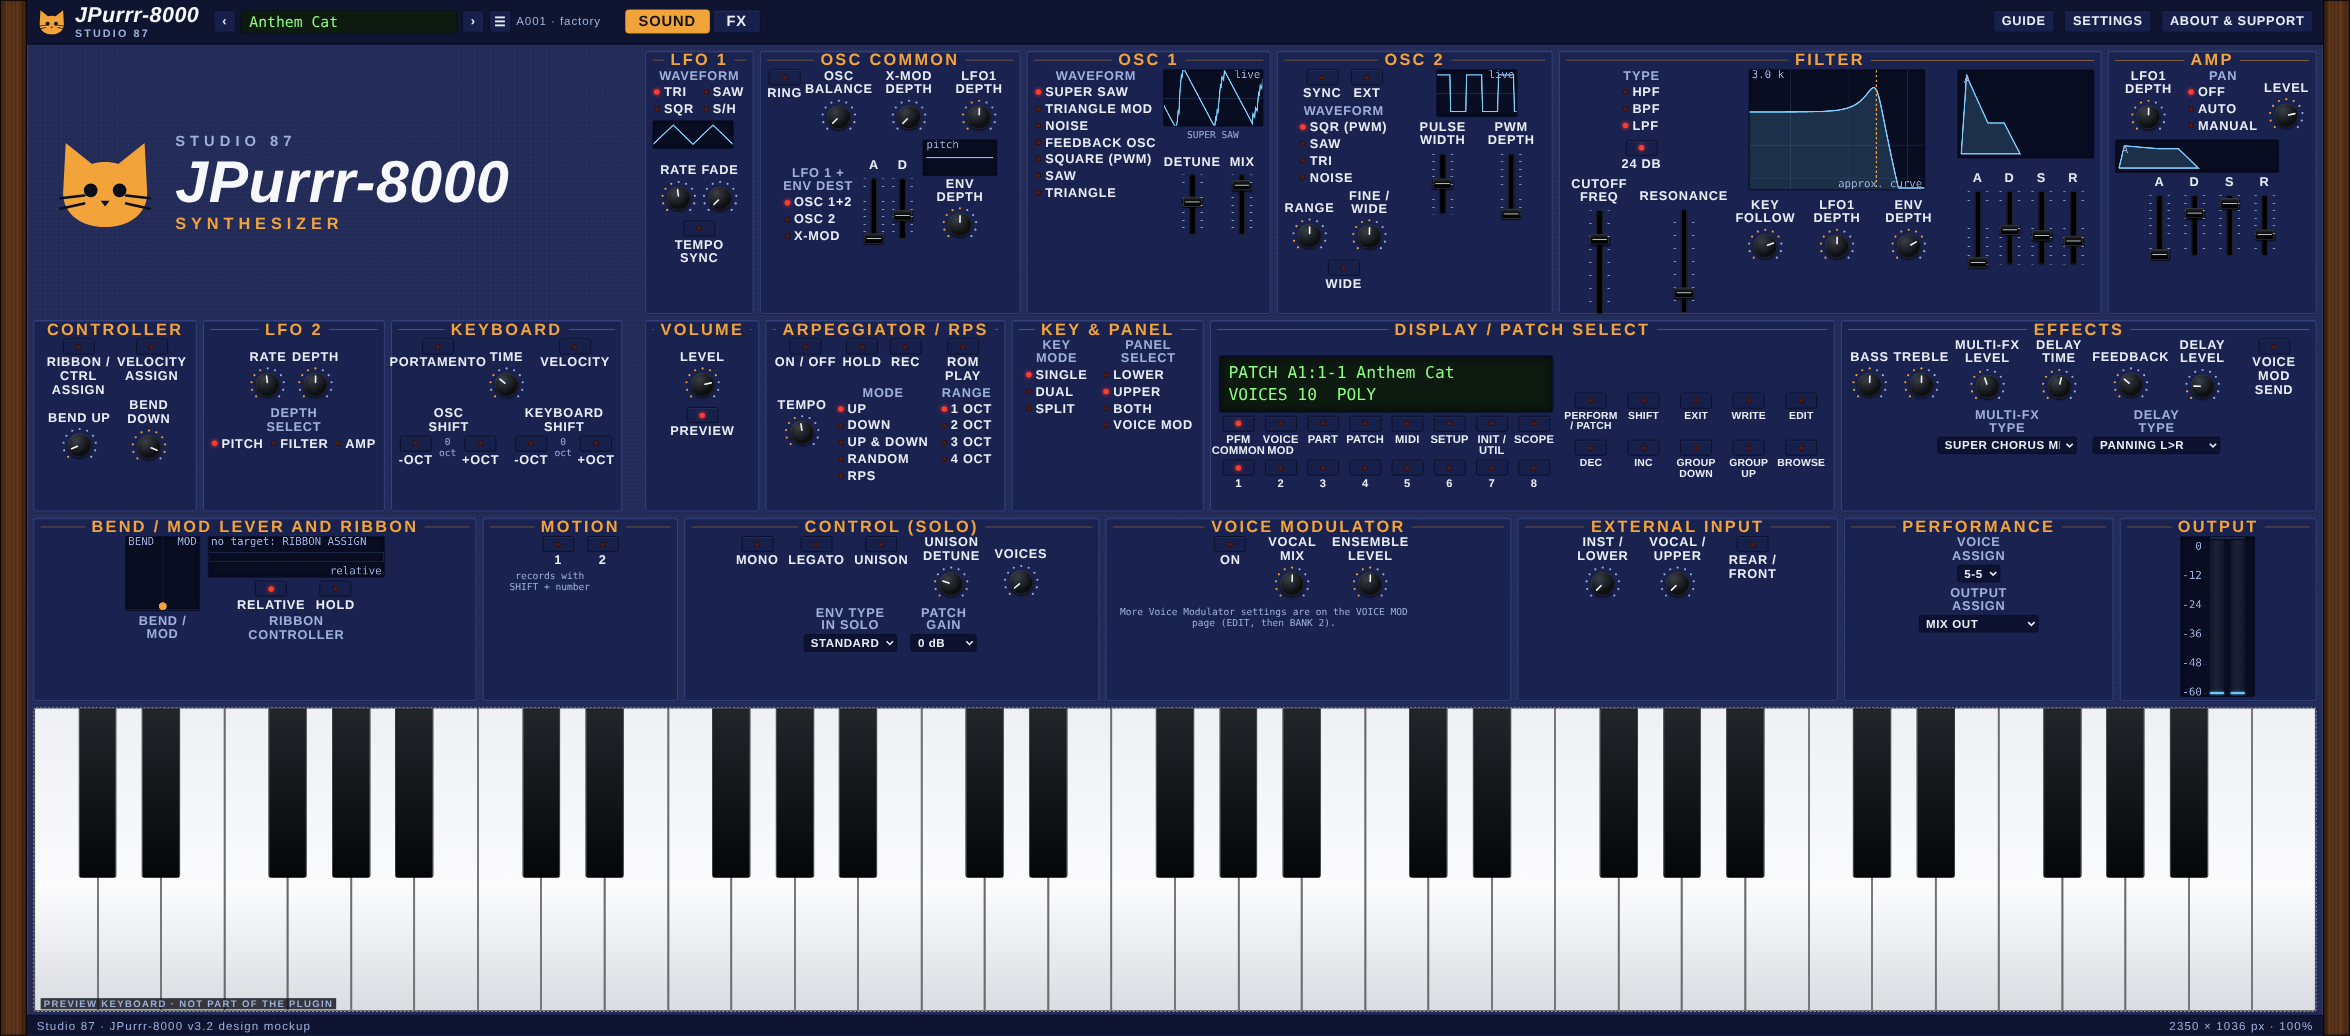
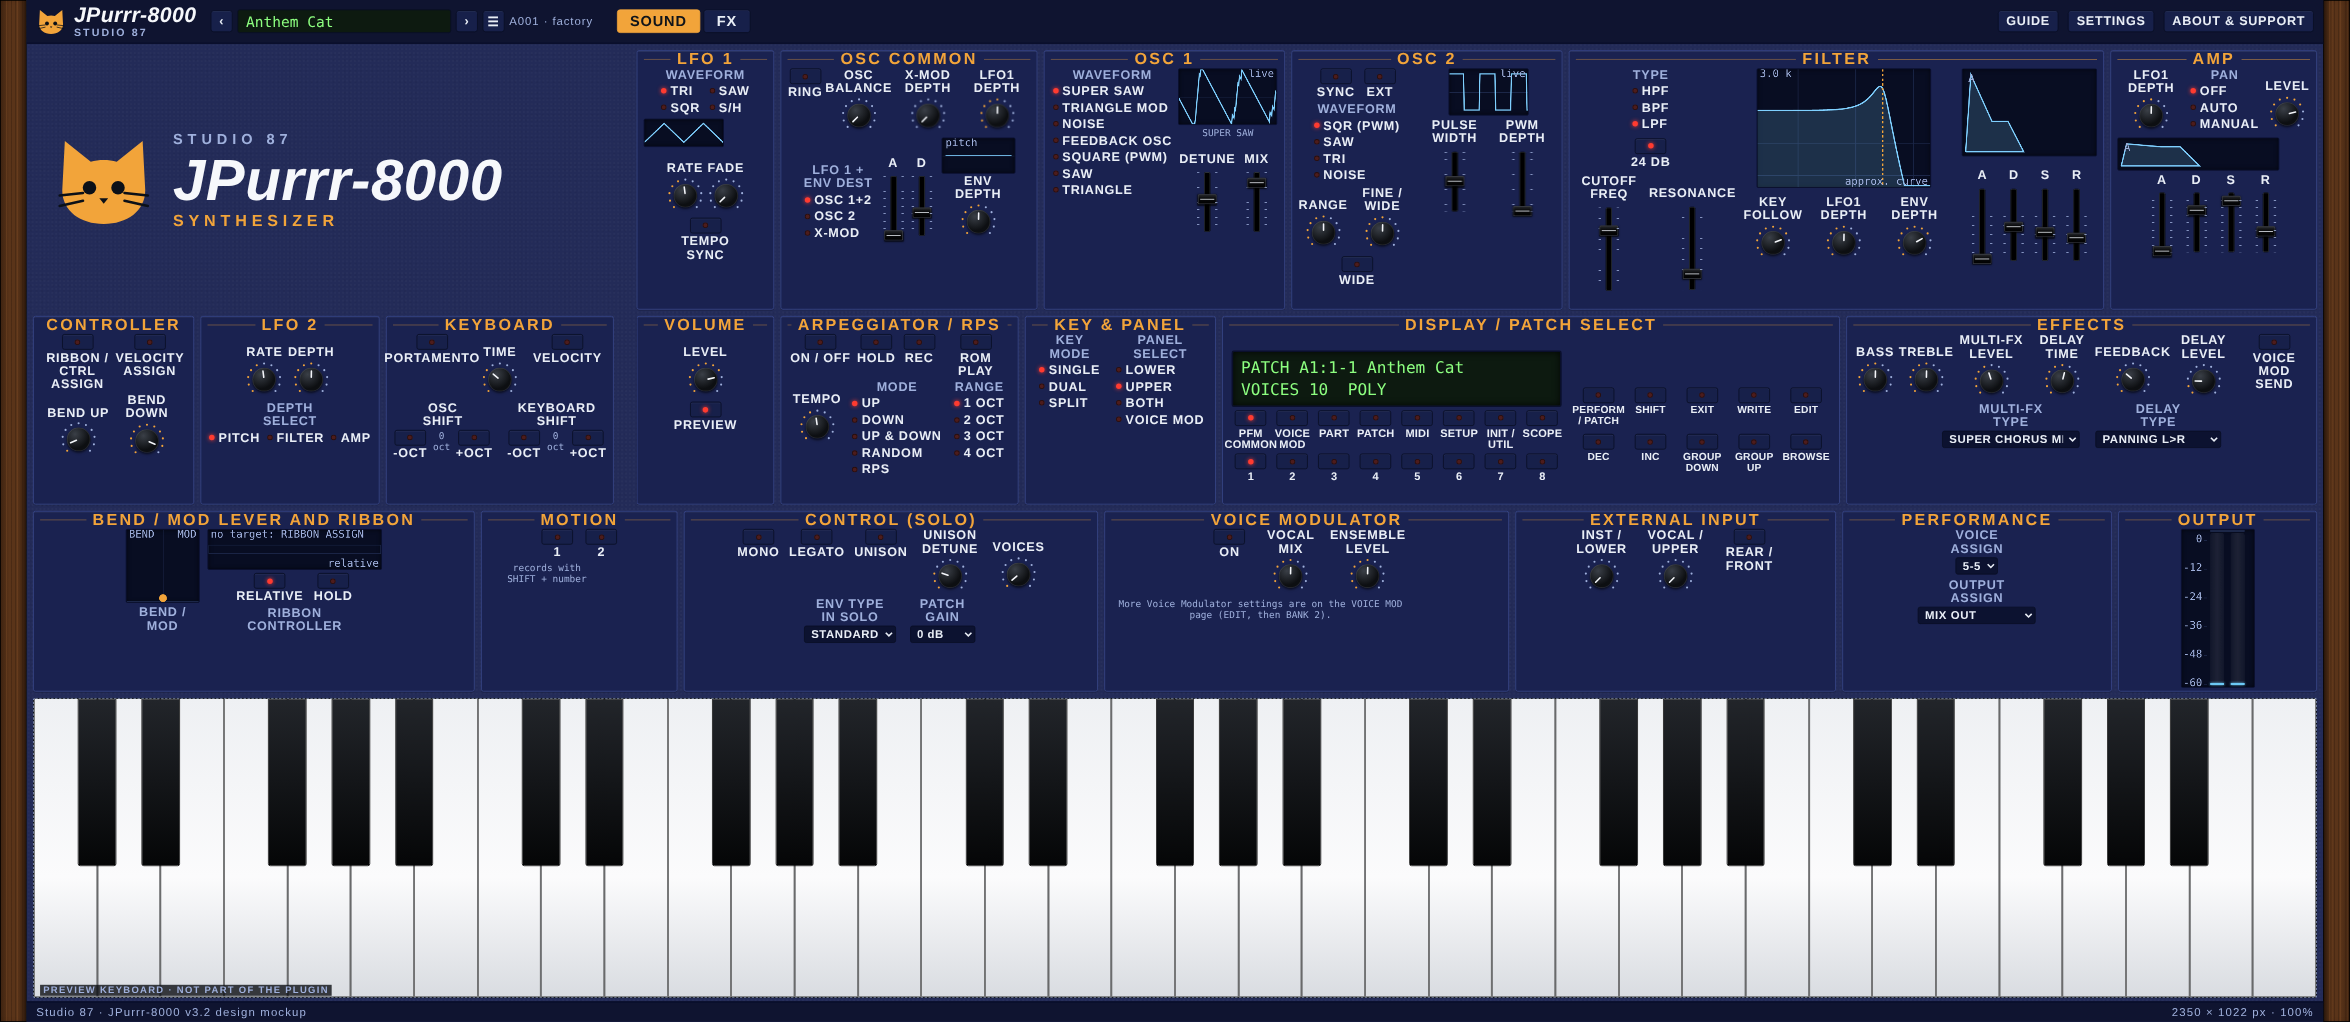
Mockup: wider LFO 1 and VOLUME aligned, filter faders inside the module
Claude-Session: https://claude.ai/code/session_016ABbaoXQJWEN3dSNoh5BjT

diff --git a/docs/mockups/JPurrr-8000-mockup-v3.2.html b/docs/mockups/JPurrr-8000-mockup-v3.2.html
@@ -176,7 +176,7 @@ canvas.cv#cv_pad,canvas.cv#cv_rib{cursor:crosshair;touch-action:none}
 <script>
 (()=>{
 'use strict';
-const W=2950,H=1300;
+const W=2990,H=1300;
 const $=(s,r=document)=>r.querySelector(s), $$=(s,r=document)=>[...r.querySelectorAll(s)];
 const esc=s=>String(s).replace(/&/g,'&amp;').replace(/"/g,'&quot;').replace(/</g,'&lt;');
 const clamp=(v,a,b)=>Math.min(b,Math.max(a,v));
@@ -278,7 +278,7 @@ const mbFr=()=>{const f1=hzv(P.qmx1.v,40,400),f2=Math.max(hzv(P.qmx2.v,300,3000)
 const OTTW=490,OTTH=170;
 const ottGeo=(w,h)=>{const gap=14,x0=10,yT=8,yB=h-24;return {gap,x0,yT,yB,H:yB-yT,bw:(w-2*x0-2*gap)/3};};
 function buildPanel(){
-const lfo1=sec('LFO 1',120,330,
+const lfo1=sec('LFO 1',175,330,
  O('l1w','WAVEFORM',['TRI','SAW','SQR','S/H'],0,'LFO 1 waveform: TRI, SAW, SQR or S/H (random steps). It modulates pitch, filter and amp by the depth knobs.','two')+
  CV('cv_l1',100,34)+
  `<div class="row" style="gap:4px">${K('l1r','RATE',0,127,60,'LFO 1 speed.')}${K('l1f','FADE',0,127,0,'LFO 1 fade time: how long it takes to reach full depth after a key press.')}</div>`+
@@ -297,7 +297,7 @@ const osc2=sec('OSC 2',254,330,
   <div class="col">${CV('cv_o2',100,58)}<div class="row" style="gap:2px">${SL('o2c1','PULSE WIDTH',0,127,64,'CONTROL 1 of OSC 2. For SQR it is the pulse width.')}${SL('o2c2','PWM DEPTH',0,127,0,'CONTROL 2 of OSC 2. For SQR it is how far LFO 1 moves the pulse width.')}</div></div></div>`);
 const flt=sec('FILTER',560,330,
  `<div class="cols" style="gap:18px;align-items:flex-start;justify-content:space-between"><div class="col" style="gap:8px">${O('ft','TYPE',['HPF','BPF','LPF'],2,'Filter type: high pass, band pass or low pass.')}${T('f24','24 dB',1,'Filter slope: lit is 24 dB per octave, dark is 12 dB per octave.')}
-   <div class="row" style="gap:22px">${SL('fc','CUTOFF FREQ',0,127,92,'Filter cutoff frequency.',{h:142})}${SL('fr','RESONANCE',0,127,24,'Resonance. At the top the filter rings on its own and gives a sine tone.',{h:142})}</div></div>
+   <div class="row" style="gap:22px">${SL('fc','CUTOFF FREQ',0,127,92,'Filter cutoff frequency.',{h:118})}${SL('fr','RESONANCE',0,127,24,'Resonance. At the top the filter rings on its own and gives a sine tone.',{h:118})}</div></div>
   <div class="col" style="gap:10px">${CV('cv_f',220,150)}<div class="row" style="gap:6px">${K('fk','KEY FOLLOW',-64,63,32,'How much the cutoff follows the key. +32 keeps the brightness the same over the keyboard.')}${K('fl','LFO1 DEPTH',-64,63,0,'How much LFO 1 moves the cutoff.')}${K('fe','ENV DEPTH',-64,63,28,'How much the filter envelope moves the cutoff. Negative values invert it.')}</div></div>
   <div class="col" style="gap:10px">${CV('cv_fe',170,110)}<div class="row" style="gap:6px;margin-top:6px">${SL('fea','A',0,127,2,'Filter envelope attack time.',{h:104})}${SL('fed','D',0,127,60,'Filter envelope decay time.',{h:104})}${SL('fes','S',0,127,50,'Filter envelope sustain level.',{h:104})}${SL('fer','R',0,127,40,'Filter envelope release time.',{h:104})}</div></div></div>`);
 const amp=sec('AMP',226,330,
@@ -322,8 +322,9 @@ const fxs=sec('EFFECTS',480,240,
  `<div class="row" style="gap:6px">${K('tb','BASS',-64,63,0,'Tone control: low shelf. Right of centre adds low end, left cuts it.')}${K('tt','TREBLE',-64,63,0,'Tone control: high shelf. Right of centre adds highs, left cuts them.')}${K('xl','MULTI-FX LEVEL',0,127,55,'Level of the chorus, flanger, phaser or distortion chosen below.')}${K('dt','DELAY TIME',0,127,70,'Delay time. The range depends on the delay type.')}${K('dfb','FEEDBACK',0,127,40,'How much of the delay comes back into itself.')}${K('dl','DELAY LEVEL',0,127,22,'Delay level. 0 is off.')}${T('vsend','VOICE MOD SEND',0,'Send the patch into the Voice Modulator.')}</div>`+
  `<div class="row" style="gap:20px;align-items:flex-end">${D('xt','MULTI-FX TYPE',FX,1,'Multi effects type. Twelve chorus, flanger and phaser types plus DISTORTION (new on the JP-8080). Distortion takes the place of the chorus.')}${D('dty','DELAY TYPE',DLY,0,'Delay type: panning left to right, right to left, short panning, mono short or mono long.')}</div>`);
 
-const vol=sec('VOLUME',96,240,
+const vol=sec('VOLUME',175,240,
  K('vol','LEVEL',0,127,100,'Master volume of the plugin.')+T('prev','PREVIEW',1,'Preview: shows the on-screen keyboard to play sounds without a MIDI keyboard.'));
+const fixW=(h,w)=>h.replace('style="min-width:'+w+'px;','style="flex:0 0 '+w+'px;width:'+w+'px;min-width:'+w+'px;');
 P.prev.nosave=1;
 const arp=sec('ARPEGGIATOR / RPS',300,240,
  `<div class="row" style="gap:8px">${T('aon','ON / OFF',0,'Arpeggiator or RPS on or off.')}${T('ahold','HOLD',0,'Hold: keep the arpeggio going after you let go.')}${btn('arec','REC','Record an RPS pattern (comes with the plugin).')}${btn('arom','ROM PLAY','Play a built in RPS pattern (comes with the plugin).')}</div>`+
@@ -412,7 +413,7 @@ const fxpage=`<div class="fxtabs"><button class="hb tab on" id="tfx1" data-tip="
  `<div id="fx1" class="fxp"><div class="rowS" style="height:330px">${gate}${mst}${rsp}</div><div class="rowS" style="height:484px">${dr}${lo}${ms}${tr}${tm2}${gl}${wd}${ap}</div></div>`+
  `<div id="fx2" class="fxp" hidden><div class="rowS" style="height:362px">${opto}${ott}${ou}${flow2}</div><div class="rowS" style="height:580px">${dm}</div></div>`;
 const logo=`<div class="logo">${CAT}<div><small>STUDIO 87</small><div class="big">JPurrr-8000</div><div class="sub">SYNTHESIZER</div></div></div>`;
-return `<div id="pgSound" class="pg"><div class="rowS"><div class="lblk" style="width:760px">${logo}<div class="rowS">${ctr}${lfo2}${kbs}</div></div><div class="mblk"><div class="rowS">${lfo1}${com}${osc1}${osc2}${flt}${amp}</div><div class="rowS">${vol}${arp}${kpn}${disp}${fxs}</div></div></div><div class="rowS">${rbn}${mot}${ctrl}${vmod}${ext}${pfm}${outp}</div></div>`+`<div id="pgFx" class="pg" hidden>${fxpage}</div><div id="kbd"><span class="tag">Preview keyboard · not part of the plugin</span></div>`;
+return `<div id="pgSound" class="pg"><div class="rowS"><div class="lblk" style="width:760px">${logo}<div class="rowS">${ctr}${lfo2}${kbs}</div></div><div class="mblk"><div class="rowS">${fixW(lfo1,175)}${com}${osc1}${osc2}${flt}${amp}</div><div class="rowS">${fixW(vol,175)}${arp}${kpn}${disp}${fxs}</div></div></div><div class="rowS">${rbn}${mot}${ctrl}${vmod}${ext}${pfm}${outp}</div></div>`+`<div id="pgFx" class="pg" hidden>${fxpage}</div><div id="kbd"><span class="tag">Preview keyboard · not part of the plugin</span></div>`;
 }
 
 const CAT=`<svg viewBox="0 0 40 40" aria-hidden="true"><path fill="currentColor" d="M5 5l10 8c3-1 7-1 10 0l10-8 1 19c0 8-7 13-16 13S4 32 4 24z"/><circle cx="14.5" cy="23" r="2.6" fill="#0b1018"/><circle cx="25.5" cy="23" r="2.6" fill="#0b1018"/><path d="M18.3 27h3.4L20 29.2z" fill="#0b1018"/><path d="M3 26l9-1M3 30l9-2M37 26l-9-1M37 30l-9-2" stroke="#0b1018" stroke-width="1" fill="none" stroke-linecap="round"/></svg>`;
